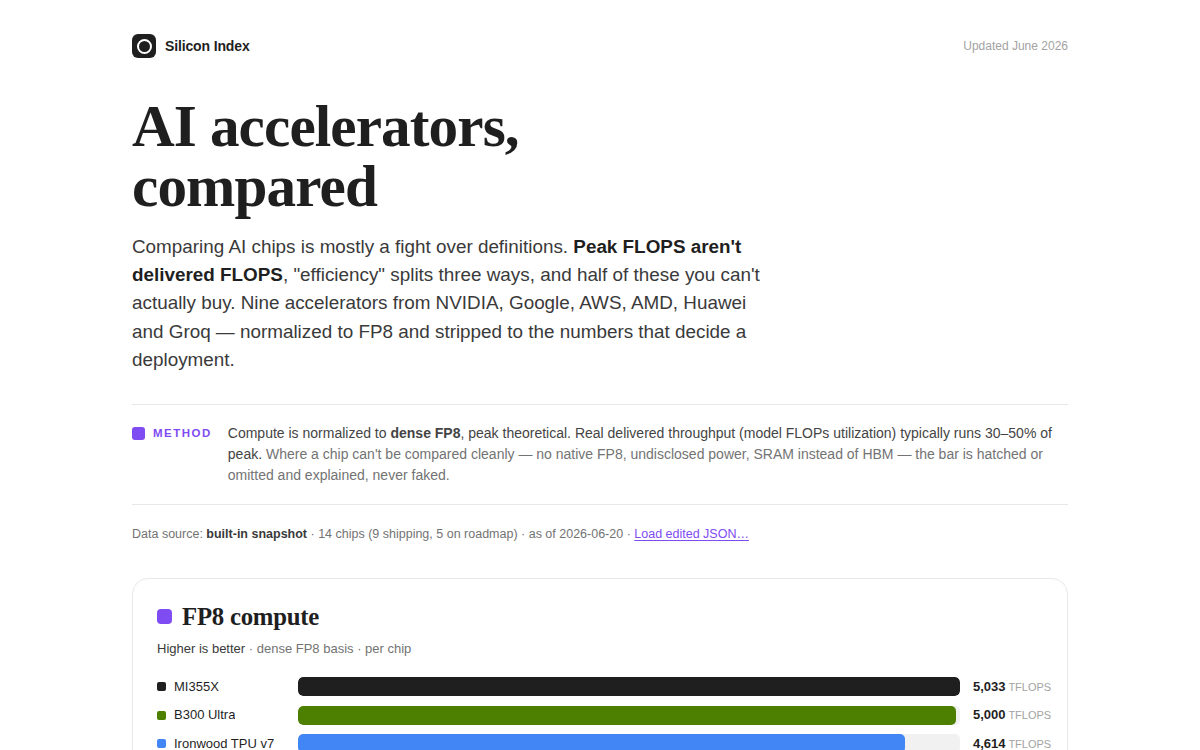
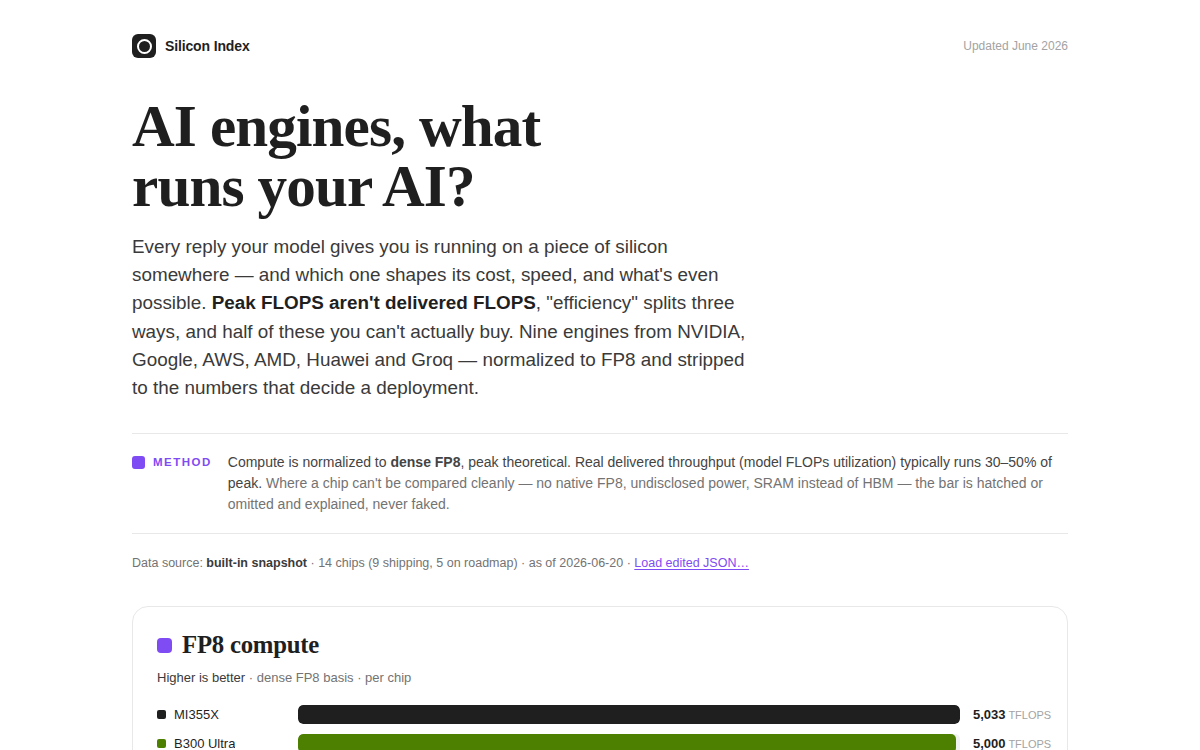
Rename AI Accelerators page to "AI engines, what runs your AI?"
Reframes the title/lede around what's actually powering today's models
rather than a neutral chip comparison. File name and links unchanged;
README and gallery captions updated to match, thumbnails regenerated.

Changed region(s): [[0.0925, 0.1227, 0.8633, 0.7667], [0.1233, 0.7973, 0.8633, 1.0]]

diff --git a/claude-design-works/ai-accelerators-2026.html b/claude-design-works/ai-accelerators-2026.html
@@ -3,7 +3,7 @@
 <head>
 <meta charset="UTF-8">
 <meta name="viewport" content="width=device-width, initial-scale=1.0">
-<title>AI Accelerators, Compared — June 2026</title>
+<title>AI Engines, What Runs Your AI? — June 2026</title>
 <link rel="preconnect" href="https://fonts.googleapis.com">
 <link rel="preconnect" href="https://fonts.gstatic.com" crossorigin>
 <link href="https://fonts.googleapis.com/css2?family=Inter:wght@400;450;500;600;700&family=Source+Serif+4:opsz,wght@8..60,400;8..60,500;8..60,600;8..60,700&display=swap" rel="stylesheet">
@@ -163,8 +163,8 @@
     <div class="stamp">Updated June&nbsp;2026</div>
   </div>
 
-  <h1>AI accelerators, compared</h1>
-  <p class="lede">Comparing AI chips is mostly a fight over definitions. <b>Peak FLOPS aren't delivered FLOPS</b>, "efficiency" splits three ways, and half of these you can't actually buy. Nine accelerators from NVIDIA, Google, AWS, AMD, Huawei and Groq — normalized to FP8 and stripped to the numbers that decide a deployment.</p>
+  <h1>AI engines, what runs your AI?</h1>
+  <p class="lede">Every reply your model gives you is running on a piece of silicon somewhere — and which one shapes its cost, speed, and what's even possible. <b>Peak FLOPS aren't delivered FLOPS</b>, "efficiency" splits three ways, and half of these you can't actually buy. Nine engines from NVIDIA, Google, AWS, AMD, Huawei and Groq — normalized to FP8 and stripped to the numbers that decide a deployment.</p>
 
   <div class="method">
     <div class="ey"><span class="sq"></span>METHOD</div>

diff --git a/README.md b/README.md
@@ -18,7 +18,7 @@ served live via **GitHub Pages** so you can view them rendered, not just as sour
   </tr>
   <tr>
     <td width="50%" align="center" valign="top"><a href="https://satejp10.github.io/claude-infographics/claude-design-works/glass-morphism-design-trials.html"><img src="assets/thumbnails/glass-morphism-design-trials.png" alt="Liquid Glass — Design Trials" width="420"></a><br><sub><b>Liquid Glass — Design Trials</b></sub></td>
-    <td width="50%" align="center" valign="top"><a href="https://satejp10.github.io/claude-infographics/claude-design-works/ai-accelerators-2026.html"><img src="assets/thumbnails/ai-accelerators-2026.png" alt="AI Accelerators, Compared" width="420"></a><br><sub><b>AI Accelerators, Compared</b></sub></td>
+    <td width="50%" align="center" valign="top"><a href="https://satejp10.github.io/claude-infographics/claude-design-works/ai-accelerators-2026.html"><img src="assets/thumbnails/ai-accelerators-2026.png" alt="AI Engines, What Runs Your AI?" width="420"></a><br><sub><b>AI Engines, What Runs Your AI?</b></sub></td>
   </tr>
   <tr>
     <td width="50%" align="center" valign="top"><a href="https://satejp10.github.io/claude-infographics/claude-design-works/agentic-capabilities-june-2026.html"><img src="assets/thumbnails/agentic-capabilities-june-2026.png" alt="Agentic Capabilities" width="420"></a><br><sub><b>Agentic Capabilities</b></sub></td>
@@ -36,7 +36,7 @@ _Thumbnails above are generated automatically from the works below — see [Addi
 | **How India Got Online — Pixel Quest** — an interactive, gamified scrollytelling quest through the story of India's internet adoption. *(Completely overhauled rebuild.)* | Interactive (HTML) | Jun 2026 | [View](https://satejp10.github.io/claude-infographics/claude-design-works/how-india-got-online-pixel-quest.html) · [Source](claude-design-works/how-india-got-online-pixel-quest.html) |
 | **India Online — How a Billion Got Connected** — the standalone data report: the charts and numbers behind India's path from a handful of users to a billion connected. | Data report (HTML) | Jun 2026 | [View](https://satejp10.github.io/claude-infographics/claude-design-works/india-online-data-report.html) · [Source](claude-design-works/india-online-data-report.html) |
 | **Liquid Glass — Design Trials** — interactive glass-morphism design experiments (flick, drag, refract). | Design experiment (HTML) | Jun 2026 | [View](https://satejp10.github.io/claude-infographics/claude-design-works/glass-morphism-design-trials.html) · [Source](claude-design-works/glass-morphism-design-trials.html) |
-| **AI Accelerators, Compared** — FP8 compute-per-watt vs. memory bandwidth across 2026 AI chips, normalized to comparable definitions. | Infographic (HTML) | Jun 2026 | [View](https://satejp10.github.io/claude-infographics/claude-design-works/ai-accelerators-2026.html) · [Source](claude-design-works/ai-accelerators-2026.html) |
+| **AI Engines, What Runs Your AI?** — what's actually powering today's models: FP8 compute-per-watt vs. memory bandwidth across 2026 AI chips, normalized to comparable definitions. | Infographic (HTML) | Jun 2026 | [View](https://satejp10.github.io/claude-infographics/claude-design-works/ai-accelerators-2026.html) · [Source](claude-design-works/ai-accelerators-2026.html) |
 | **Agentic Capabilities** — how far agents got by mid-2026: METR task-completion time horizons, the coding ceiling, and computer use crossing into the human band. | Infographic (HTML) | Jun 2026 | [View](https://satejp10.github.io/claude-infographics/claude-design-works/agentic-capabilities-june-2026.html) · [Source](claude-design-works/agentic-capabilities-june-2026.html) |
 | **AI Labs, by Headcount** — estimated employee counts across ten frontier model builders: lean, five-figure-adjacent US teams vs. a few hundred people at China's open-weight leaders. | Infographic (HTML) | Jun 2026 | [View](https://satejp10.github.io/claude-infographics/claude-design-works/ai-lab-headcount.html) · [Source](claude-design-works/ai-lab-headcount.html) |
 

diff --git a/claude-design-works/README.md b/claude-design-works/README.md
@@ -10,6 +10,6 @@ See the [main index](../README.md#works) for the full list with live-view links.
 - `how-india-got-online-pixel-quest.html` — interactive, gamified "Pixel Quest" through India's internet-adoption story (completely overhauled rebuild), Jun 2026.
 - `india-online-data-report.html` — standalone data report behind the Pixel Quest: charts on India's path to a billion connected, Jun 2026.
 - `glass-morphism-design-trials.html` — interactive glass-morphism (Liquid Glass) design experiments, Jun 2026.
-- `ai-accelerators-2026.html` — AI accelerators compared (FP8 compute-per-watt vs. memory bandwidth), Jun 2026.
+- `ai-accelerators-2026.html` — "AI engines, what runs your AI?": FP8 compute-per-watt vs. memory bandwidth across 2026 chips, Jun 2026.
 - `agentic-capabilities-june-2026.html` — agentic capability progress (METR time horizons, coding, computer use), Jun 2026.
 - `ai-lab-headcount.html` — estimated employee counts across ten frontier AI labs, Jun 2026.